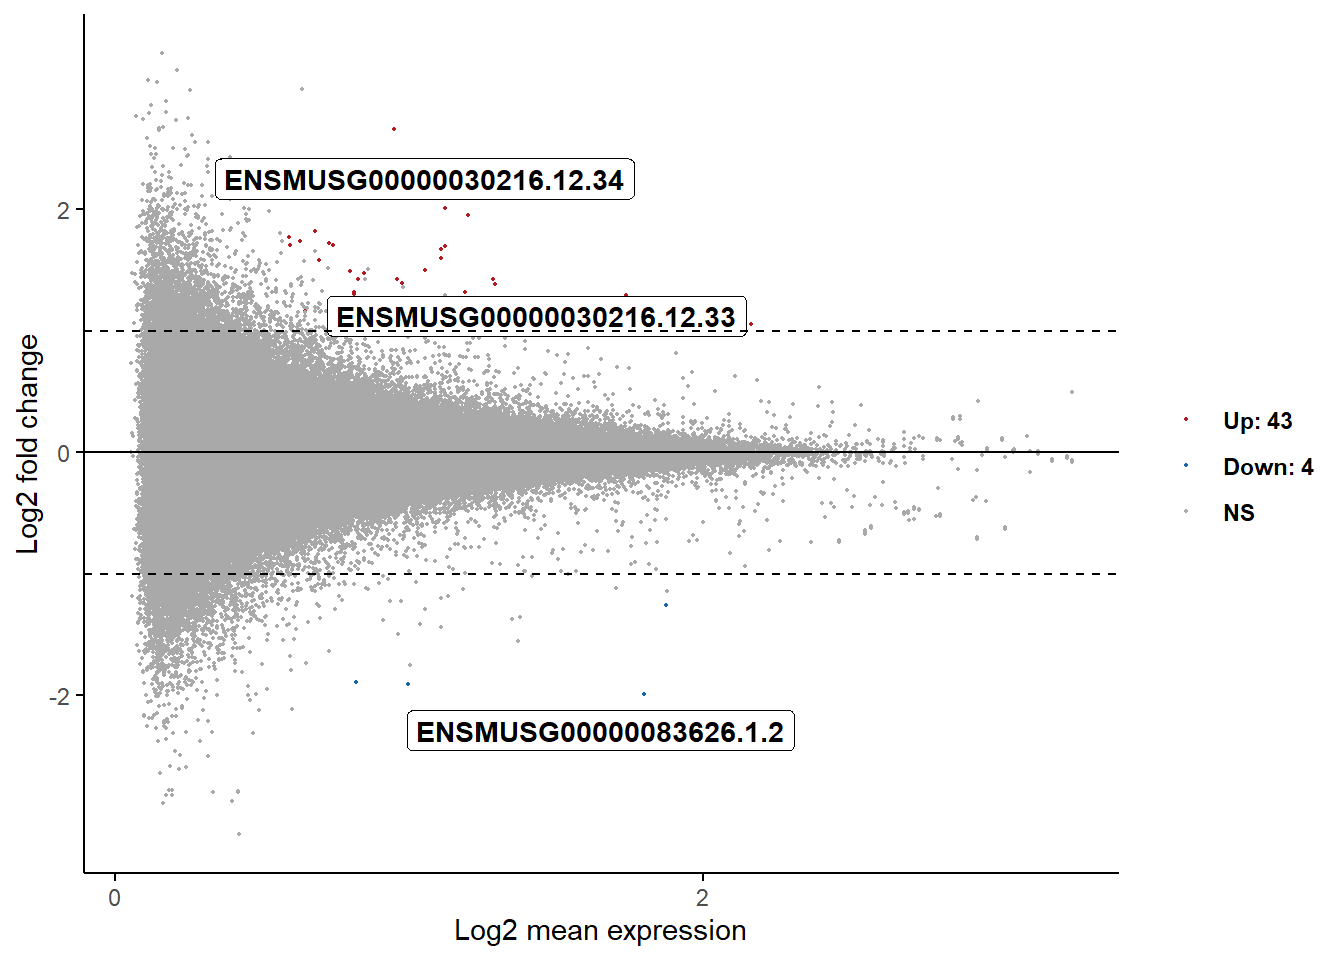
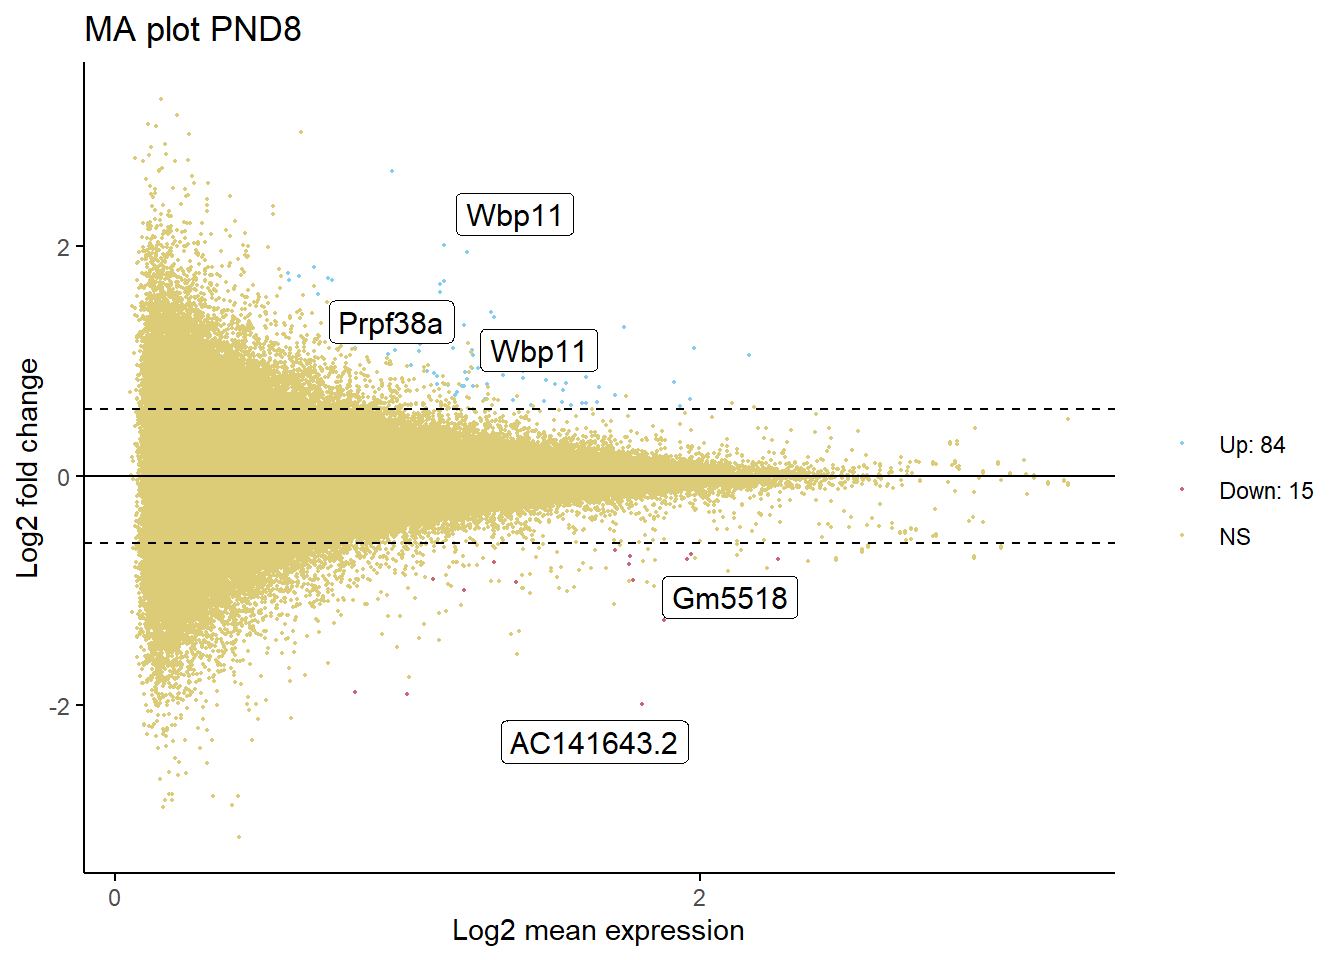
Build site.

diff --git a/docs/3_Processed_plot_PND8_JC.html b/docs/3_Processed_plot_PND8_JC.html
@@ -302,7 +302,7 @@ $(document).ready(function () {
 <div class="tab-content">
 <div id="summary" class="tab-pane fade in active">
 <p>
-<strong>Last updated:</strong> 2021-04-11
+<strong>Last updated:</strong> 2021-04-15
 </p>
 <p>
 <strong>Checks:</strong> <span class="glyphicon glyphicon-ok text-success" aria-hidden="true"></span> 6 <span class="glyphicon glyphicon-exclamation-sign text-danger" aria-hidden="true"></span> 1
@@ -425,26 +425,32 @@ data/counts_bins_apa.rds
 <div class="panel panel-default">
 <div class="panel-heading">
 <p class="panel-title">
-<a data-toggle="collapse" data-parent="#workflowr-checks" href="#strongRepositoryversionstrongahrefhttpsgithubcommansuylabproject6bc2021tree000b69c45042d48b03c1d595522828411333e894targetblank000b69ca"> <span class="glyphicon glyphicon-ok text-success" aria-hidden="true"></span> <strong>Repository version:</strong> <a href="https://github.com/mansuylab/project6_bc2021/tree/000b69c45042d48b03c1d595522828411333e894" target="_blank">000b69c</a> </a>
+<a data-toggle="collapse" data-parent="#workflowr-checks" href="#strongRepositoryversionstrongahrefhttpsgithubcommansuylabproject6bc2021treeccfeeb205a31e96a52418ba56a741d35f87a8759targetblankccfeeb2a"> <span class="glyphicon glyphicon-ok text-success" aria-hidden="true"></span> <strong>Repository version:</strong> <a href="https://github.com/mansuylab/project6_bc2021/tree/ccfeeb205a31e96a52418ba56a741d35f87a8759" target="_blank">ccfeeb2</a> </a>
 </p>
 </div>
[2 lines of base64/hex data omitted]
 <div class="panel-body">
 <p>
 Great! You are using Git for version control. Tracking code development and connecting the code version to the results is critical for reproducibility.
 </p>
 <p>
-The results in this page were generated with repository version <a href="https://github.com/mansuylab/project6_bc2021/tree/000b69c45042d48b03c1d595522828411333e894" target="_blank">000b69c</a>. See the <em>Past versions</em> tab to see a history of the changes made to the R Markdown and HTML files.
+The results in this page were generated with repository version <a href="https://github.com/mansuylab/project6_bc2021/tree/ccfeeb205a31e96a52418ba56a741d35f87a8759" target="_blank">ccfeeb2</a>. See the <em>Past versions</em> tab to see a history of the changes made to the R Markdown and HTML files.
 </p>
 <p>
 Note that you need to be careful to ensure that all relevant files for the analysis have been committed to Git prior to generating the results (you can use <code>wflow_publish</code> or <code>wflow_git_commit</code>). workflowr only checks the R Markdown file, but you know if there are other scripts or data files that it depends on. Below is the status of the Git repository when the results were generated:
 </p>
 <pre><code>
 Ignored files:
+    Ignored:    analysis/figure/
     Ignored:    data/counts_bins.rds
 
 Untracked files:
+    Untracked:  Ma plot utr.png
     Untracked:  data/counts_bins_apa.rds
+
+Unstaged changes:
+    Modified:   analysis/1_Preprocessed_plot_JC.Rmd
+    Modified:   analysis/4_Vignette_Plot_PND8_JC.Rmd
 
 </code></pre>
 <p>
@@ -483,6 +489,40 @@ Message
 </tr>
 </thead>
 <tbody>
+<tr>
+<td>
+Rmd
+</td>
+<td>
+<a href="https://github.com/mansuylab/project6_bc2021/blob/ccfeeb205a31e96a52418ba56a741d35f87a8759/analysis/3_Processed_plot_PND8_JC.Rmd" target="_blank">ccfeeb2</a>
+</td>
+<td>
+Julien Chabbey
+</td>
+<td>
+2021-04-15
+</td>
+<td>
+MA plot improvement
+</td>
+</tr>
+<tr>
+<td>
+html
+</td>
+<td>
+<a href="https://rawcdn.githack.com/mansuylab/project6_bc2021/3a391ac4443eb86a5e685635beac0243a23d500e/docs/3_Processed_plot_PND8_JC.html" target="_blank">3a391ac</a>
+</td>
+<td>
+Julien Chabbey
+</td>
+<td>
+2021-04-11
+</td>
+<td>
+Build site.
+</td>
+</tr>
 <tr>
 <td>
 Rmd
@@ -553,7 +593,8 @@ library(edgeR)
 library(ensembldb)
 library(ggpubr)
 library(SEtools)
-library(EnhancedVolcano)</code></pre>
+library(EnhancedVolcano)
+library(rcartocolor)</code></pre>
 <p>#Working directories and data</p>
 <pre class="r"><code>setwd(&quot;C:/Users/chabb/Desktop/ETHZ/3. Jahr/6. Semester/Blockkurs/2. Epigenetic mechanism/Project/project6_bc2021&quot;)
 se &lt;- readRDS(&quot;C:/Users/chabb/Desktop/ETHZ/3. Jahr/6. Semester/Blockkurs/2. Epigenetic mechanism/Project/project6_bc2021/data/counts_bins_apa.rds&quot;)
@@ -573,8 +614,8 @@ Max number of exons in a gene:  418 </code></pre>
 
 cd2 &lt;- data.frame(colData(se_apa))
 pnd8_2 &lt;- cd2$Stage == &quot;PND8&quot;
-sePND8UTR &lt;- se_apa[,pnd8_2]
-sePND8_utr &lt;- diffSpliceWrapper(sePND8UTR, design = ~Batch+Group, 
+sePND8_utr &lt;- se_apa[,pnd8_2]
+sePND8_utr &lt;- diffSpliceWrapper(sePND8_utr, design = ~Batch+Group, 
                 excludeTypes = c(&quot;CDS&quot;,&quot;non-coding&quot;))</code></pre>
 <pre><code>Testing coefficient GroupMSUS</code></pre>
 <pre><code>Total number of exons:  316430 
@@ -582,6 +623,7 @@ Total number of genes:  22903
 Number of genes with 1 exon:  5745 
 Mean number of exons in a gene:  14 
 Max number of exons in a gene:  418 </code></pre>
+<pre class="r"><code>cols &lt;- carto_pal(n = 9, &quot;Safe&quot;)</code></pre>
 <p>#P-Value Histogram</p>
 <pre class="r"><code>hist.plot_exon &lt;- hist(rowRanges(sePND8_exon)$bin.p.value)</code></pre>
 <p><img src="figure/3_Processed_plot_PND8_JC.Rmd/unnamed-chunk-3-1.png" width="672" style="display: block; margin: auto;" /></p>
@@ -594,16 +636,28 @@ Max number of exons in a gene:  418 </code></pre>
 maData &lt;- data.frame(baseMean = rowData(sePND8_exon)$meanLogCPM, log2FoldChange = rowData(sePND8_exon)$coefficient, padj = rowData(sePND8_exon)$bin.FDR)
 
 #plot
-ggmaplot(maData, 
-   fdr = 0.05, fc = 2, size = 0.4,
-    xlab = &quot;Log2 mean expression&quot;,
-    ylab = &quot;Log2 fold change&quot;,
-    top = 3,
-    font.label = c(&quot;bold&quot;, 11), label.rectangle = TRUE,
-    font.legend = &quot;bold&quot;,
-    font.main = &quot;bold&quot;
+#ggmaplot(maData, 
+ #  fdr = 0.05, fc = 2, size = 0.4,
+  #  xlab = &quot;Log2 mean expression&quot;,
+   # ylab = &quot;Log2 fold change&quot;,
+  #  top = 3,
+   # font.label = c(&quot;bold&quot;, 11), label.rectangle = TRUE,
+    #font.legend = &quot;bold&quot;,
+    #font.main = &quot;bold&quot;
   
-)</code></pre>
+#)
+
+rse.frame1 &lt;- data.frame(rowRanges(sePND8_exon))
+MA.plot.exon &lt;- ggmaplot(maData, fdr = 0.05, 
+         fc=1.5, size= 0.4,
+         max.overlaps=1000,
+         main = &#39;MA plot PND8&#39;,
+         label.rectangle = TRUE,
+         alpha = 5,
+         top=5,
+         genenames = rse.frame1$gene_name, 
+         palette = cols)
+MA.plot.exon</code></pre>
 <p><img src="figure/3_Processed_plot_PND8_JC.Rmd/unnamed-chunk-4-1.png" width="672" style="display: block; margin: auto;" /></p>
 <pre class="r"><code>#UTR
 
@@ -611,16 +665,28 @@ ggmaplot(maData,
 maData_utr &lt;- data.frame(baseMean = rowData(sePND8_utr)$meanLogCPM, log2FoldChange = rowData(sePND8_utr)$coefficient, padj = rowData(sePND8_utr)$bin.FDR)
 
 #plot
-ggmaplot(maData_utr, 
-   fdr = 0.05, fc = 2, size = 0.4,
-    xlab = &quot;Log2 mean expression&quot;,
-    ylab = &quot;Log2 fold change&quot;,
-    top = 3,
-    font.label = c(&quot;bold&quot;, 11), label.rectangle = TRUE,
-    font.legend = &quot;bold&quot;,
-    font.main = &quot;bold&quot;
+#ggmaplot(maData_utr, 
+ #  fdr = 0.05, fc = 2, size = 0.4,
+  #  xlab = &quot;Log2 mean expression&quot;,
+   # ylab = &quot;Log2 fold change&quot;,
+    #top = 3,
+    #font.label = c(&quot;bold&quot;, 11), label.rectangle = TRUE,
+    #font.legend = &quot;bold&quot;,
+    #font.main = &quot;bold&quot;
   
-)</code></pre>
+#)
+
+rse.frame &lt;- data.frame(rowRanges(sePND8_utr))
+MA.plot.utr &lt;- ggmaplot(maData_utr, fdr = 0.05, 
+         fc=1.5, size= 0.4,
+         max.overlaps=1000,
+         main = &#39;MA plot PND8&#39;,
+         label.rectangle = TRUE,
+         alpha = 5,
+         top=5,
+         genenames = rse.frame$gene_name, 
+         palette = cols)
+MA.plot.utr</code></pre>
 <p><img src="figure/3_Processed_plot_PND8_JC.Rmd/unnamed-chunk-4-2.png" width="672" style="display: block; margin: auto;" /></p>
 <p>#Volcano Plot (exon analysis)</p>
 <pre class="r"><code>#Exon
@@ -697,18 +763,19 @@ attached base packages:
 [8] methods   base     
 
 other attached packages:
- [1] EnhancedVolcano_1.8.0       ggrepel_0.9.1              
- [3] SEtools_1.4.0               ggpubr_0.4.0               
- [5] ensembldb_2.14.0            AnnotationFilter_1.14.0    
- [7] GenomicFeatures_1.42.2      AnnotationDbi_1.52.0       
- [9] edgeR_3.32.1                limma_3.46.0               
-[11] reshape2_1.4.4              ggplot2_3.3.3              
-[13] dplyr_1.0.5                 SummarizedExperiment_1.20.0
-[15] Biobase_2.50.0              GenomicRanges_1.42.0       
-[17] GenomeInfoDb_1.26.4         IRanges_2.24.1             
-[19] S4Vectors_0.28.1            BiocGenerics_0.36.0        
-[21] MatrixGenerics_1.2.1        matrixStats_0.58.0         
-[23] diffUTR_0.99.24             workflowr_1.6.2            
+ [1] rcartocolor_2.0.0           EnhancedVolcano_1.8.0      
+ [3] ggrepel_0.9.1               SEtools_1.4.0              
+ [5] ggpubr_0.4.0                ensembldb_2.14.0           
+ [7] AnnotationFilter_1.14.0     GenomicFeatures_1.42.2     
+ [9] AnnotationDbi_1.52.0        edgeR_3.32.1               
+[11] limma_3.46.0                reshape2_1.4.4             
+[13] ggplot2_3.3.3               dplyr_1.0.5                
+[15] SummarizedExperiment_1.20.0 Biobase_2.50.0             
+[17] GenomicRanges_1.42.0        GenomeInfoDb_1.26.4        
+[19] IRanges_2.24.1              S4Vectors_0.28.1           
+[21] BiocGenerics_0.36.0         MatrixGenerics_1.2.1       
+[23] matrixStats_0.58.0          diffUTR_0.99.24            
+[25] workflowr_1.6.2            
 
 loaded via a namespace (and not attached):
   [1] utf8_1.2.1               tidyselect_1.1.0         RSQLite_2.2.4           
